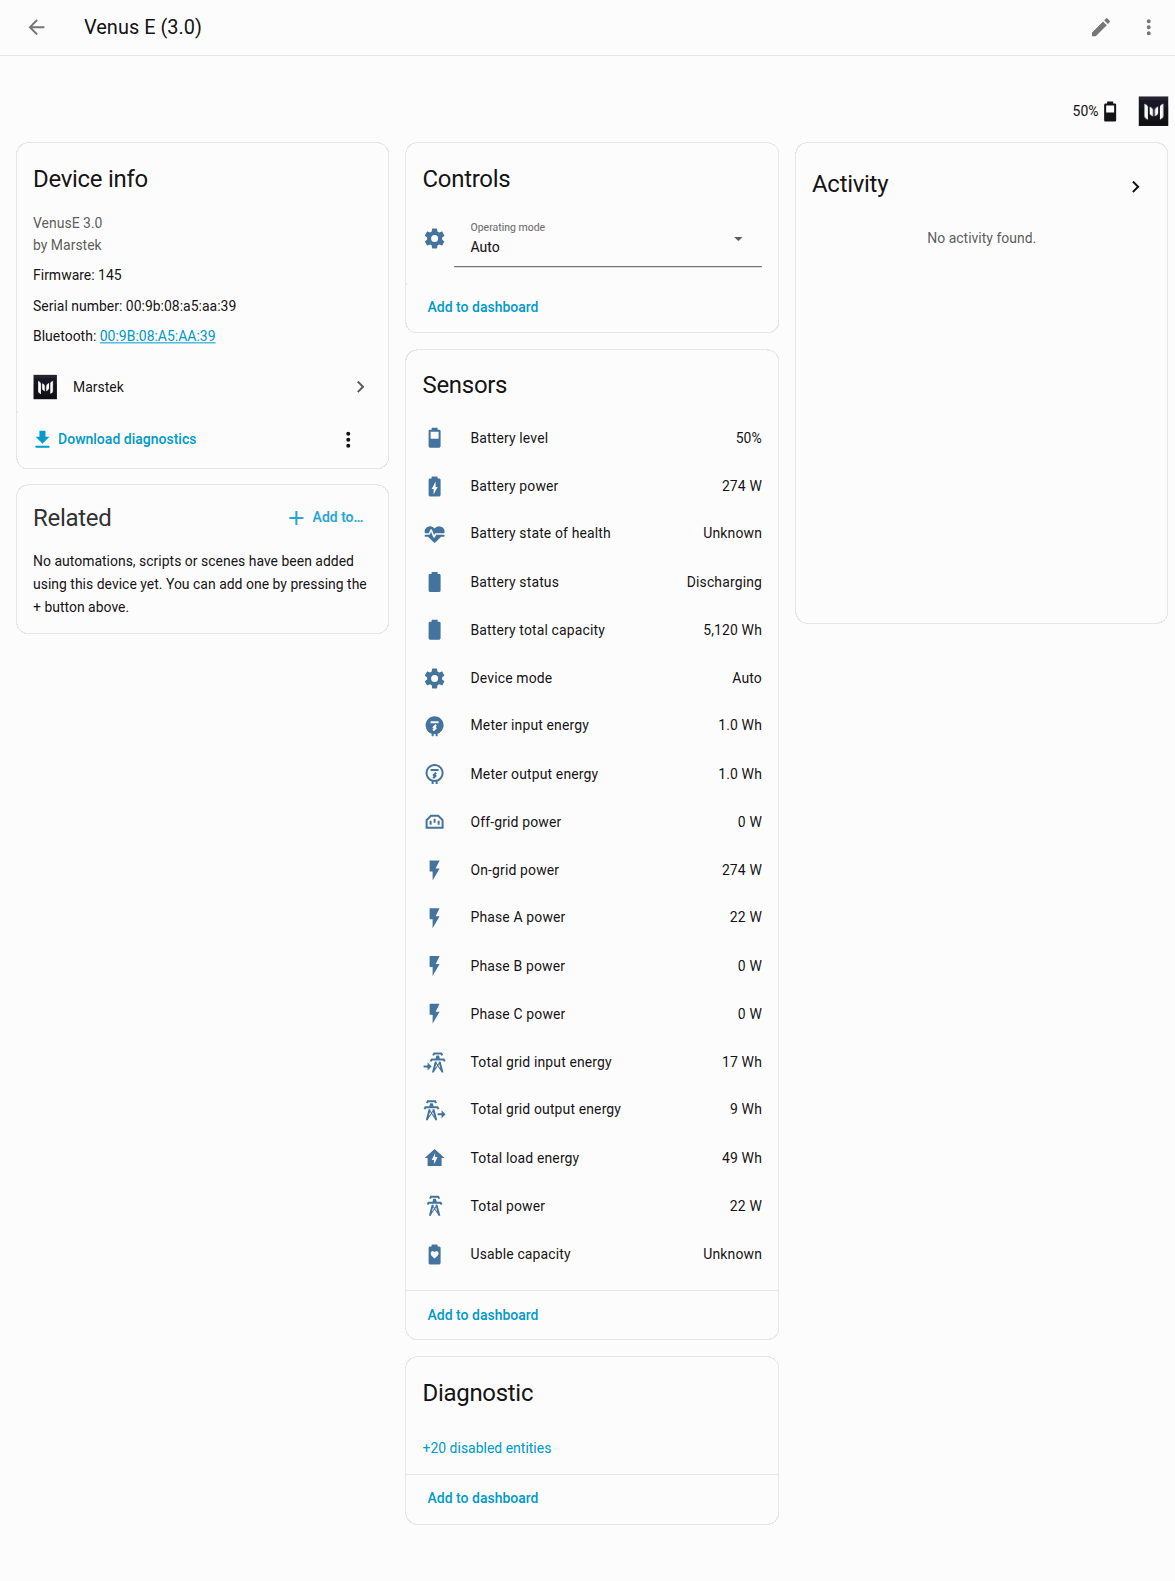
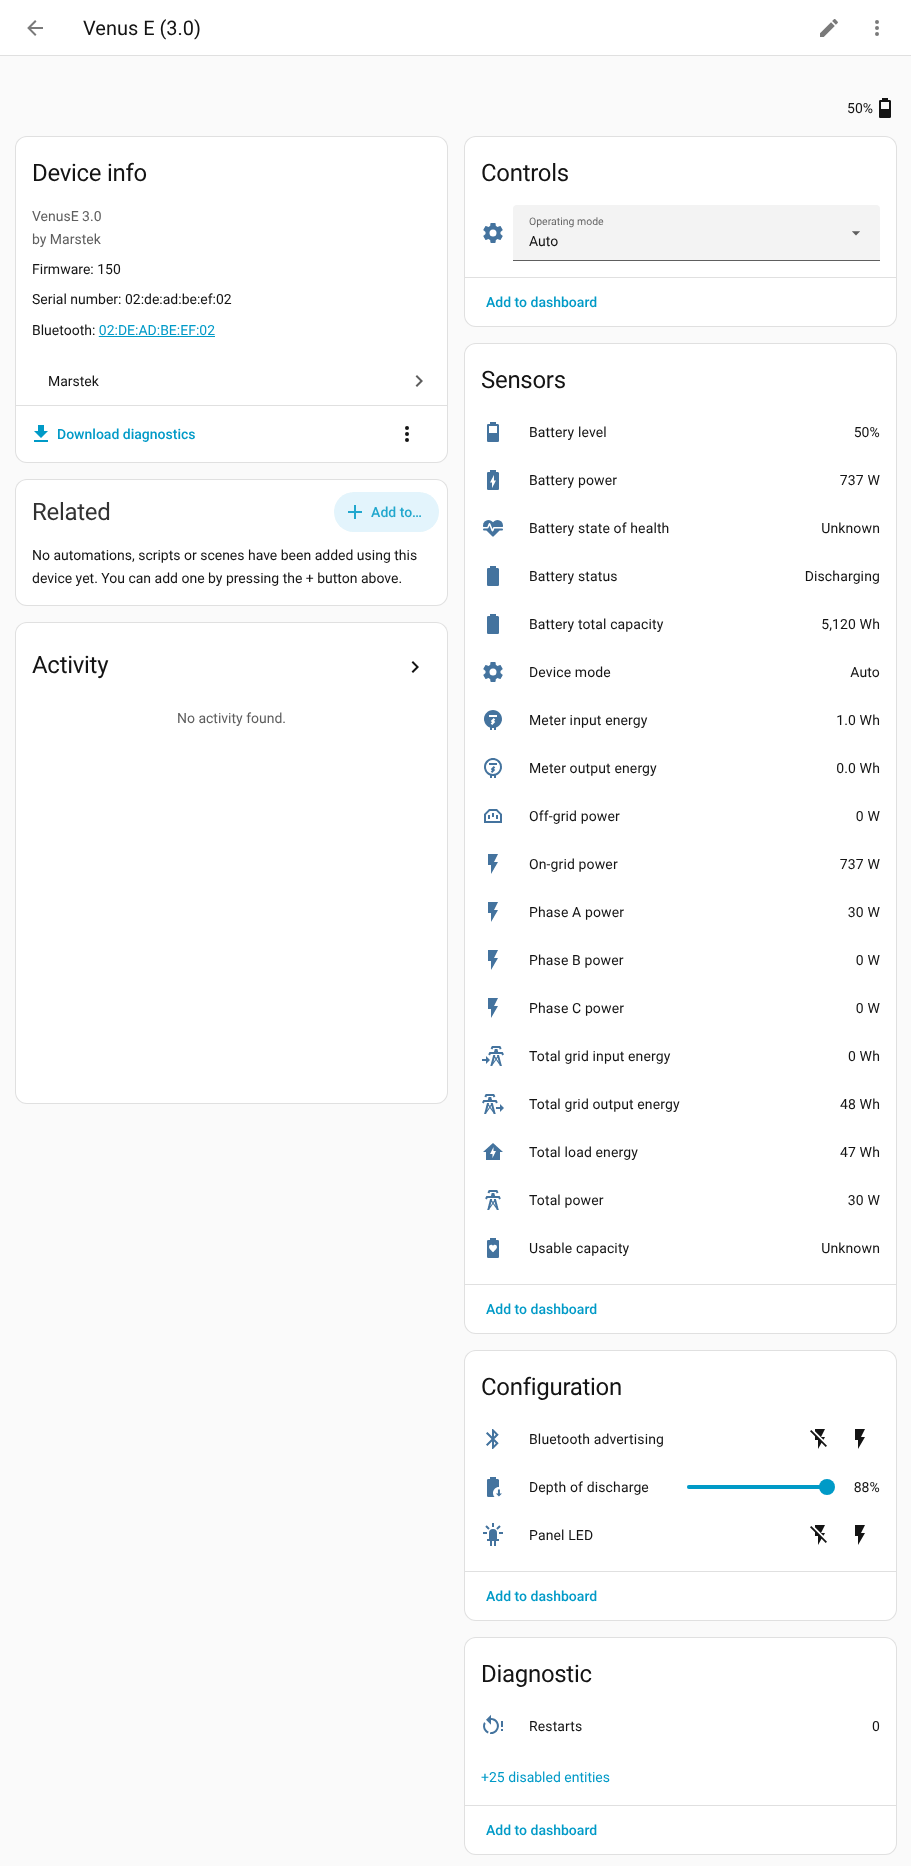
docs: retake options and device page screenshots
Network, Power and Polling options are captured on integration 1.11.0,
so they show the Parallel API requests toggle, the 5 s delay, and the
renamed 800 W limit. The device page is taken on firmware 150 and shows
the Configuration controls and the Restarts sensor. The captions that
flagged the old screenshots are removed.

Claude-Session: https://claude.ai/code/session_01HVfax9dWDeudzLJETpH9Vk

diff --git a/docs/screenshots.md b/docs/screenshots.md
@@ -26,8 +26,6 @@ The device page groups the sensors, the operating-mode select, and the controls.
 
 <img src="screenshots/device-details.png" alt="Venus E device page with battery sensors and controls." width="560" />
 
-*Shown on older firmware 145. On 150 and newer you also see the **Restarts** sensor, and the battery-detail sensors under **Diagnostic**.*
-
 A few diagnostic sensors, including **Battery temperature**, start disabled. `Bat.GetStatus`, the request behind them, has been suspected of resetting some batteries, so the integration waits until you opt in. On the device page, show disabled entities, open **Battery temperature** (or another battery-detail entity), open the gear, and turn **Enabled** on. On recent firmware the request starts on its own. On older firmware those entities stay omitted. The full list is in [Entities](entities.md).
 
 ## Battery health sidebar dashboard

diff --git a/docs/options.md b/docs/options.md
@@ -56,8 +56,6 @@ flapping on an unstable device API.
 
 <img src="screenshots/device-settings-network.png" alt="Network Settings" width="560" />
 
-*Older screenshot: it predates the Parallel API requests toggle and the 5 s default delay.*
-
 ## Power Settings
 
 These settings affect automations, command validation, and how off-grid power is shown:
@@ -79,8 +77,6 @@ The 800 W limit defaults to **on** for Venus C, Venus D, Venus E and Venus E min
 Charging is always validated against the same per-family maximum (as a negative value); the socket limit only caps discharge.
 
 <img src="screenshots/device-settings-power.png" alt="Power Settings" width="560" />
-
-*Older screenshot: the limit is now labelled **Enforce 800 W discharge limit**, and the Clamp negative off-grid power toggle is new.*
 
 ## Battery health dashboard
 

diff --git a/.changeset/docs-fact-check.md b/.changeset/docs-fact-check.md
@@ -2,4 +2,4 @@
 "ha-marstek-release-tools": patch
 ---
 
-Fix documentation claims that did not match the integration, including option labels and defaults, which sensors each model gets, the reset-prone firmware list, and screenshot captions.
+Fix documentation claims that did not match the integration, including option labels and defaults, which sensors each model gets, the reset-prone firmware list, and retake the options and device page screenshots on integration 1.11.0.
